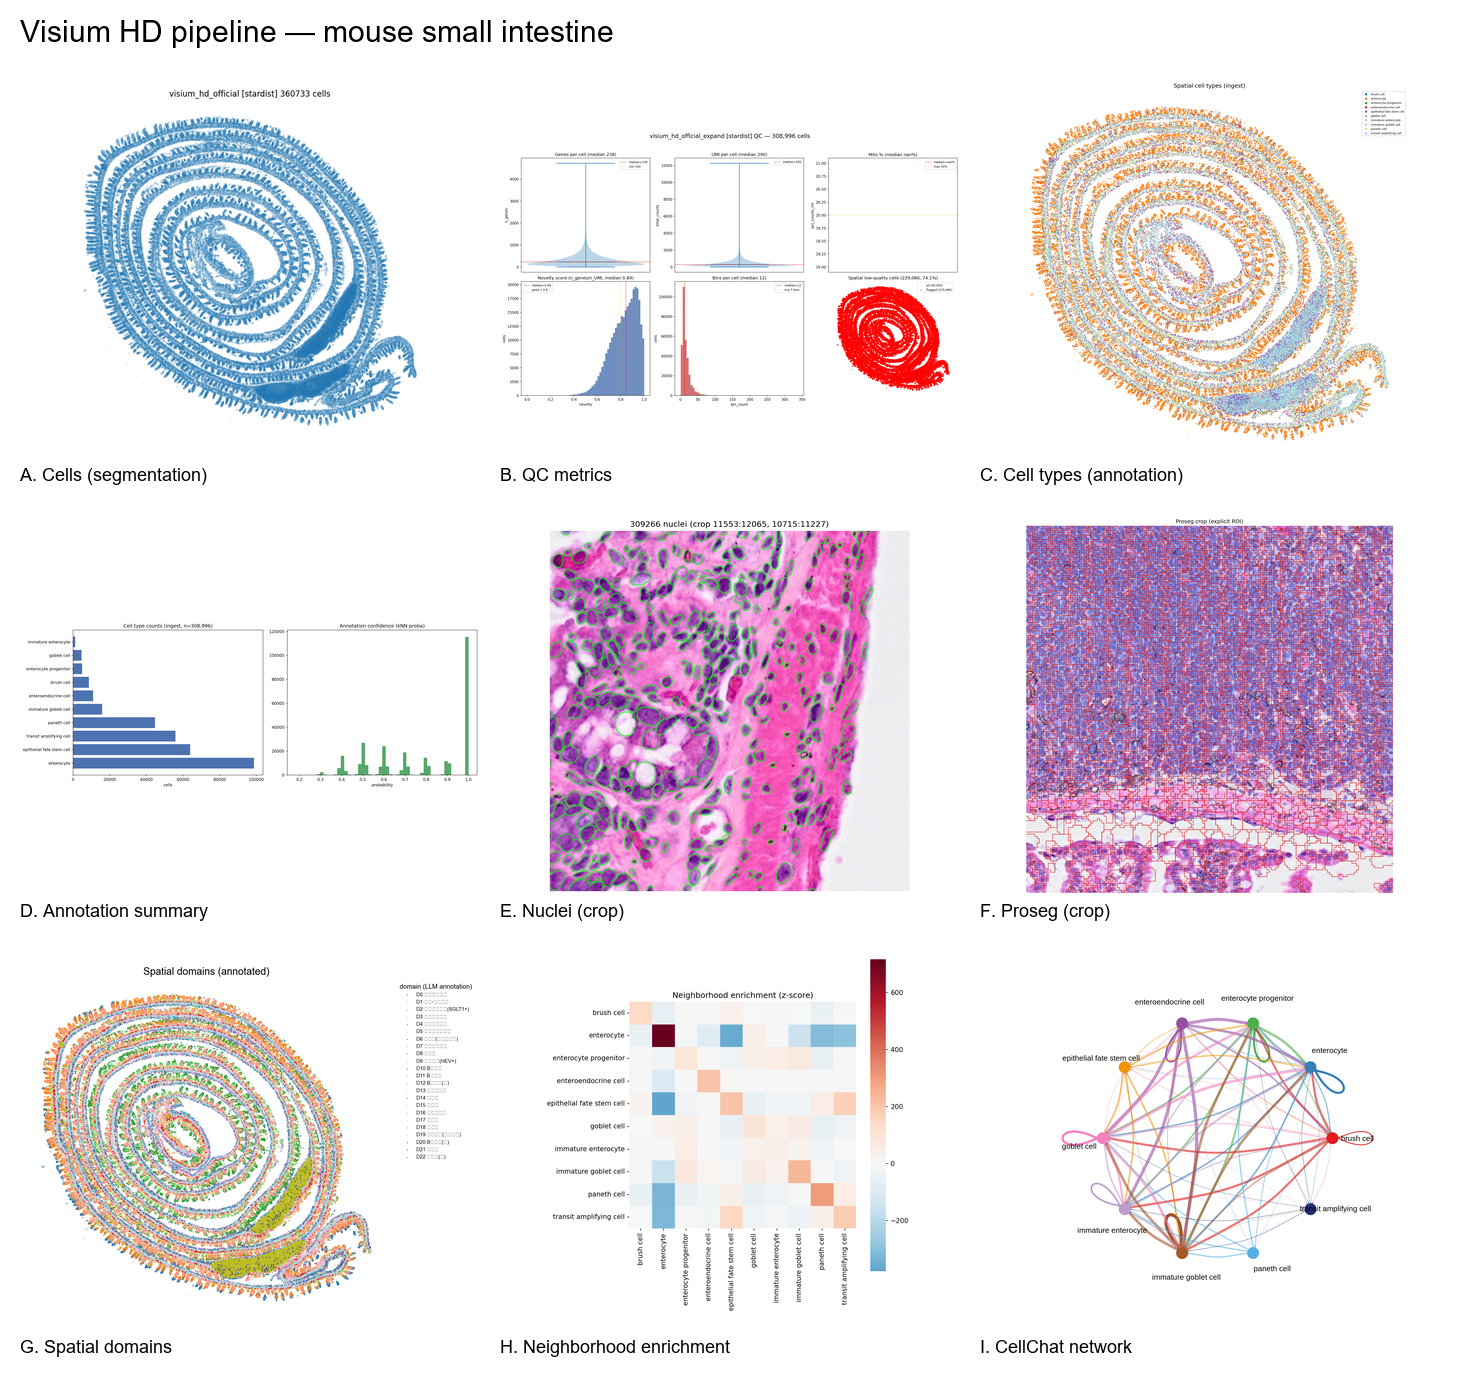
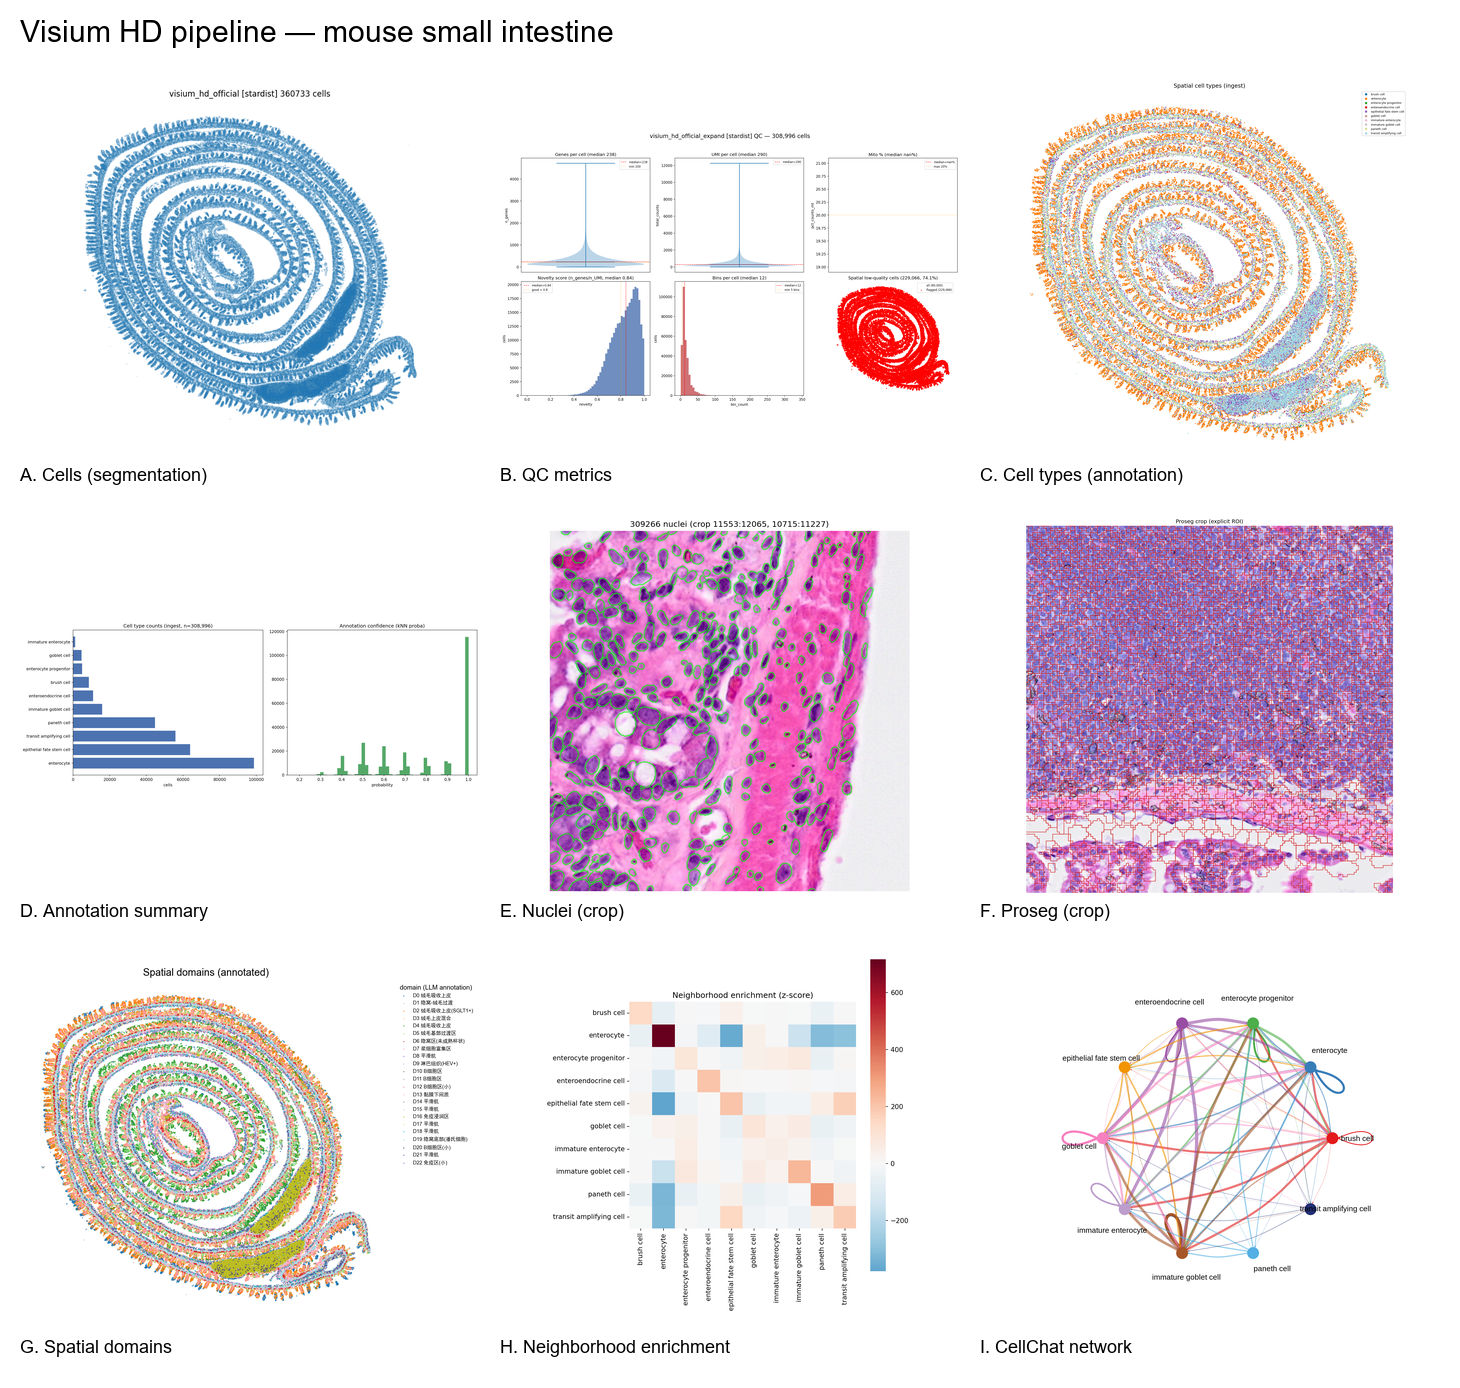
fix: CJK font fallback in domain fig (font.family list Arial+SimHei), redraw overview

Changed region(s): [[0.0308, 0.6816, 0.2774, 0.9604], [0.2774, 0.7125, 0.3082, 0.8365]]

diff --git a/src/ezst/visium.py b/src/ezst/visium.py
@@ -68,8 +68,7 @@ def _plot_setup(output_dir: str) -> None:
                 _fm.fontManager.addfont(_p)
         except Exception:
             pass
-    _plt.rcParams["font.family"] = "sans-serif"
-    _plt.rcParams["font.sans-serif"] = ["Arial", "SimHei"]
+    _plt.rcParams["font.family"] = ["Arial", "SimHei"]
     _plt.rcParams["axes.unicode_minus"] = False
 
 
